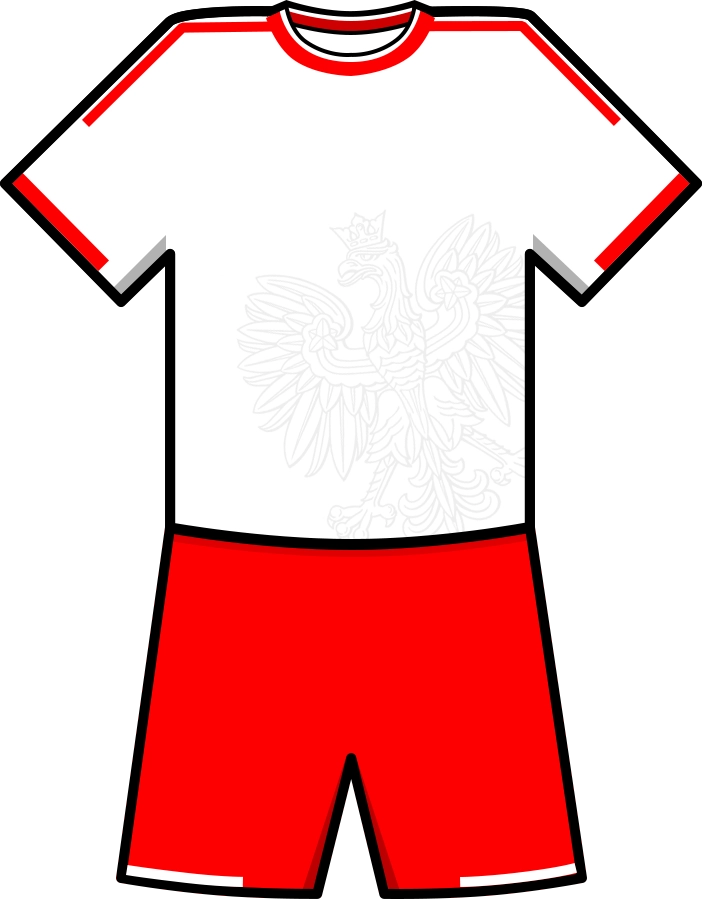
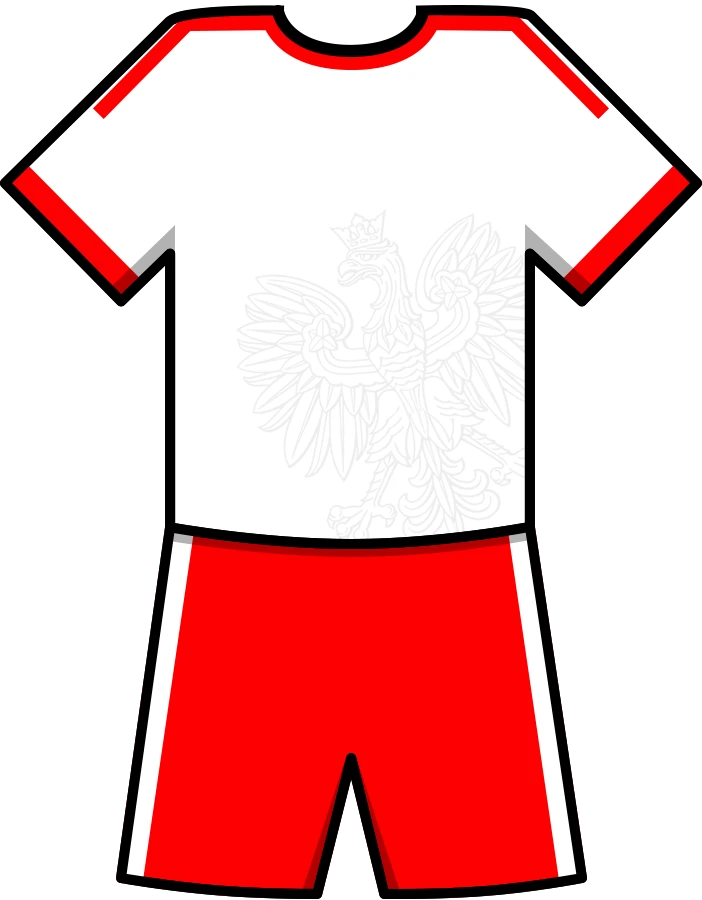
Update team kit assets and colors

diff --git a/src/data/teamKits.ts b/src/data/teamKits.ts
@@ -89,10 +89,10 @@ const TEAM_KIT_STYLE_ROWS = [
   ['cm', '#007A5E', '#FCD116', '#FCD116', undefined],
   ['ca', '#D80621', '#FFFFFF', '#FFFFFF', undefined],
   ['cl', '#D52B1E', '#0039A6', '#FFFFFF', '#FFFFFF', '#0039A6'],
-  ['co', '#FCD116', '#003893', '#003893', '#FFFFFF'],
+  ['co', '#FCDE00', '#0570E5', '#FF0000', undefined],
   ['cr', '#CE1126', '#002B7F', '#FFFFFF', '#111111'],
-  ['hr', '#FFFFFF', '#FF0000', '#0033A0', '#FFFFFF'],
-  ['cz', '#D7141A', '#11457E', '#FFFFFF', '#111111'],
+  ['hr', '#FFFFFF', '#FF0000', '#0033A0', '#FFFFFF', '#0033A0'],
+  ['cz', '#D7141A', '#11457E', '#FFFFFF', undefined, '#FFFFFF'],
   ['dk', '#C60C30', '#FFFFFF', '#FFFFFF', '#111111'],
   ['ec', '#FFD100', '#034EA2', '#034EA2', '#FFFFFF'],
   ['eg', '#CE1126', '#000000', '#FFFFFF', '#111111'],
@@ -100,21 +100,21 @@ const TEAM_KIT_STYLE_ROWS = [
   ['fr', '#002654', '#FFFFFF', '#FFFFFF', undefined],
   ['ge', '#FFFFFF', '#E30A17', '#E30A17', '#FFFFFF'],
   ['de', '#FFFFFF', '#111111', '#111111', '#FFFFFF'],
-  ['gr', '#0D5EAF', '#FFFFFF', '#FFFFFF', '#0D3B73', '#0D5EAF'],
+  ['gr', '#0D5EAF', '#FFFFFF', '#FFFFFF', undefined, '#0D5EAF'],
   ['hu', '#CE2939', '#FFFFFF', '#FFFFFF', '#111111'],
-  ['ir', '#FFFFFF', '#239F40', '#239F40', '#FFFFFF'],
+  ['ir', '#FFFFFF', '#239F40', '#239F40', undefined],
   ['iq', '#017B3D', '#FFFFFF', '#FFFFFF', '#111111'],
-  ['ie', '#169B62', '#FFFFFF', '#FFFFFF', '#111111'],
+  ['ie', '#169B62', '#FFFFFF', '#FFFFFF', undefined],
   ['it', '#0066CC', '#FFFFFF', '#FFFFFF', undefined],
   ['ci', '#F77F00', '#009E60', '#006B3F', '#FFFFFF'],
-  ['jp', '#003478', '#FFFFFF', '#FFFFFF', '#111111'],
+  ['jp', '#003478', '#FFFFFF', '#FFFFFF', undefined],
   ['kz', '#00AFCA', '#FEC50C', '#003B5C', '#FFFFFF'],
   ['ml', '#FCD116', '#14B53A', '#007A33', '#FFFFFF'],
   ['mx', '#006847', '#FFFFFF', '#FFFFFF', undefined],
   ['ma', '#C1272D', '#006233', '#FFFFFF', '#006233', '#FFFFFF'],
   ['nl', '#F36C21', '#111111', '#111111', undefined],
   ['ng', '#008753', '#FFFFFF', '#FFFFFF', '#FFFFFF', '#000000'],
-  ['nir', '#006A3A', '#FFFFFF', '#FFFFFF', '#111111'],
+  ['nir', '#006A3A', '#FFFFFF', '#FFFFFF', undefined],
   ['no', '#BA0C2F', '#00205B', '#FFFFFF', undefined, '#FFFFFF'],
   ['pa', '#DA121A', '#FFFFFF', '#FFFFFF', '#111111'],
   ['py', '#D52B1E', '#FFFFFF', '#0038A8', '#FFFFFF', '#0038A8'],
@@ -124,7 +124,7 @@ const TEAM_KIT_STYLE_ROWS = [
   ['qa', '#8A1538', '#FFFFFF', '#FFFFFF', '#111111'],
   ['ro', '#FCD116', '#002B7F', '#002B7F', '#FFFFFF'],
   ['sa', '#006C35', '#FFFFFF', '#FFFFFF', '#111111'],
-  ['gb-sct', '#003876', '#FFFFFF', '#FFFFFF', '#111111'],
+  ['gb-sct', '#003876', '#FFFFFF', '#FFFFFF', undefined],
   ['sn', '#FFFFFF', '#00853F', '#00853F', '#FFFFFF'],
   ['rs', '#C6363C', '#0C4076', '#FFFFFF', undefined],
   ['sk', '#0052B4', '#FFFFFF', '#FFFFFF', undefined],
@@ -133,9 +133,9 @@ const TEAM_KIT_STYLE_ROWS = [
   ['kr', '#E6002D', '#111111', '#111111', '#FFFFFF'],
   ['es', '#FF0000', '#F9C601', '#F9C601', '#08088E'],
   ['se', '#FEF605', '#0146DC', '#0146DC', undefined],
-  ['ch', '#D52B1E', '#FFFFFF', '#FFFFFF', '#111111'],
+  ['ch', '#D52B1E', '#FFFFFF', '#FFFFFF', undefined],
   ['tn', '#FFFFFF', '#E70013', '#E70013', '#FFFFFF'],
-  ['tr', '#E30A17', '#FFFFFF', '#FFFFFF', undefined],
+  ['tr', '#E30A17', '#FFFFFF', '#FFFFFF', undefined, '#E30A17'],
   ['ua', '#FFD700', '#0057B8', '#0057B8', undefined],
   ['uy', '#5BC0EB', '#111111', '#111111', '#FFFFFF'],
   ['us', '#FFFFFF', '#002868', '#002868', '#FFFFFF'],

diff --git a/src/tests/teamKits.test.ts b/src/tests/teamKits.test.ts
@@ -34,12 +34,15 @@ const EXPLICIT_SHIRT_NUMBER_COLOR_OVERRIDES = new Map<string, string>([
   ['am', '#FFFFFF'],
   ['ar', '#111111'],
   ['by', '#FFFFFF'],
+  ['cz', '#FFFFFF'],
   ['gr', '#0D5EAF'],
+  ['hr', '#0033A0'],
   ['ma', '#FFFFFF'],
   ['ng', '#000000'],
   ['no', '#FFFFFF'],
   ['pt', '#F7D117'],
-  ['py', '#0038A8']
+  ['py', '#0038A8'],
+  ['tr', '#E30A17']
 ]);
 
 describe('team kit data contract', () => {
@@ -176,8 +179,7 @@ describe('team kit data contract', () => {
       path: 'kits/images/nir.webp',
       primaryColor: '#006A3A',
       secondaryColor: '#FFFFFF',
-      shirtNumberColor: '#FFFFFF',
-      shirtNumberStrokeColor: '#111111'
+      shirtNumberColor: '#FFFFFF'
     });
     expect(getTeamKitStyle('ng')).toMatchObject({
       flagCode: 'ng',
